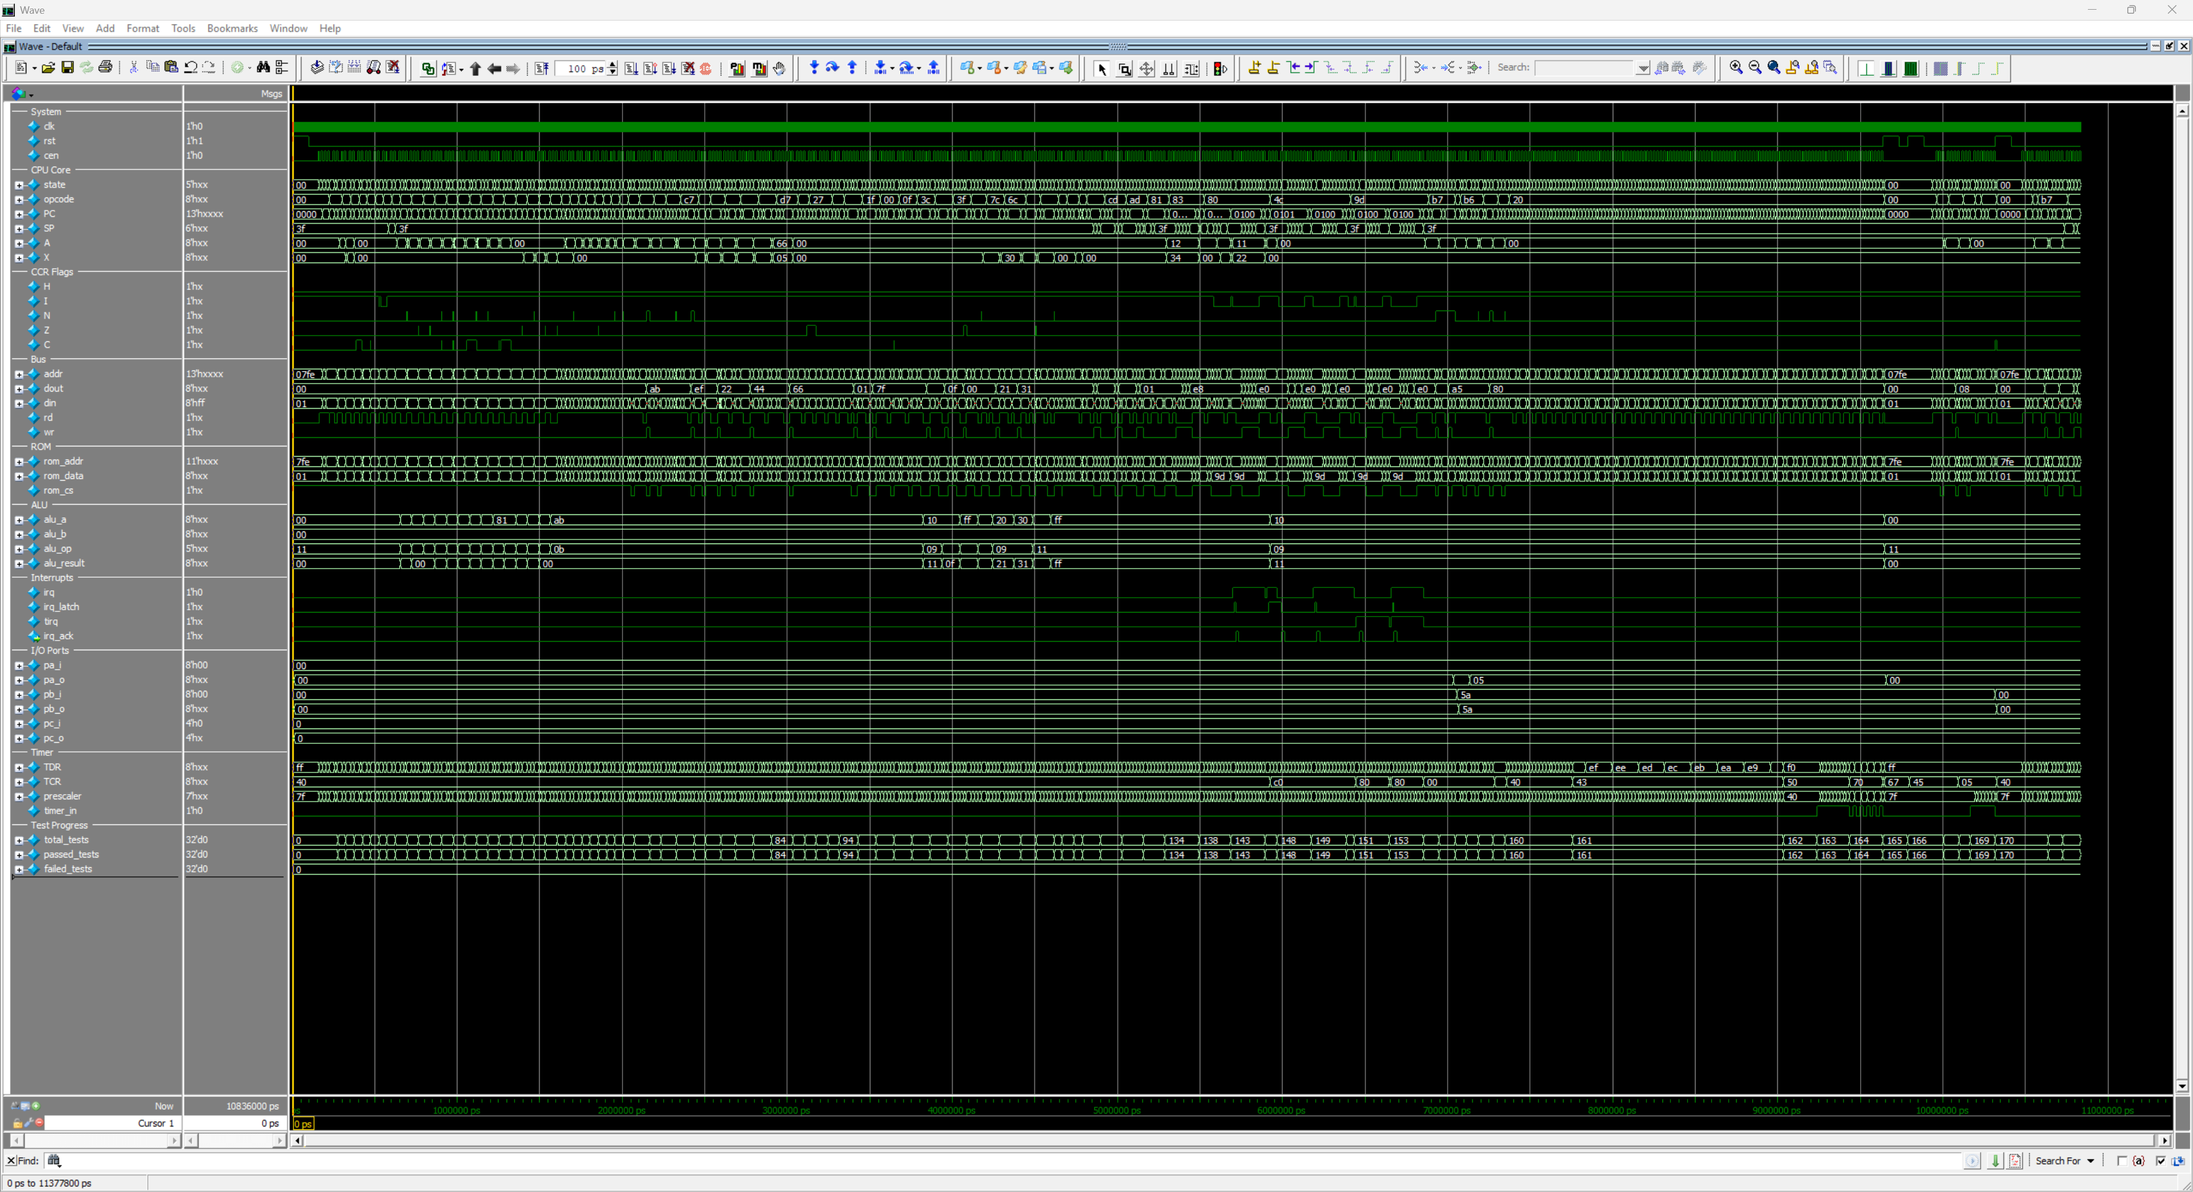
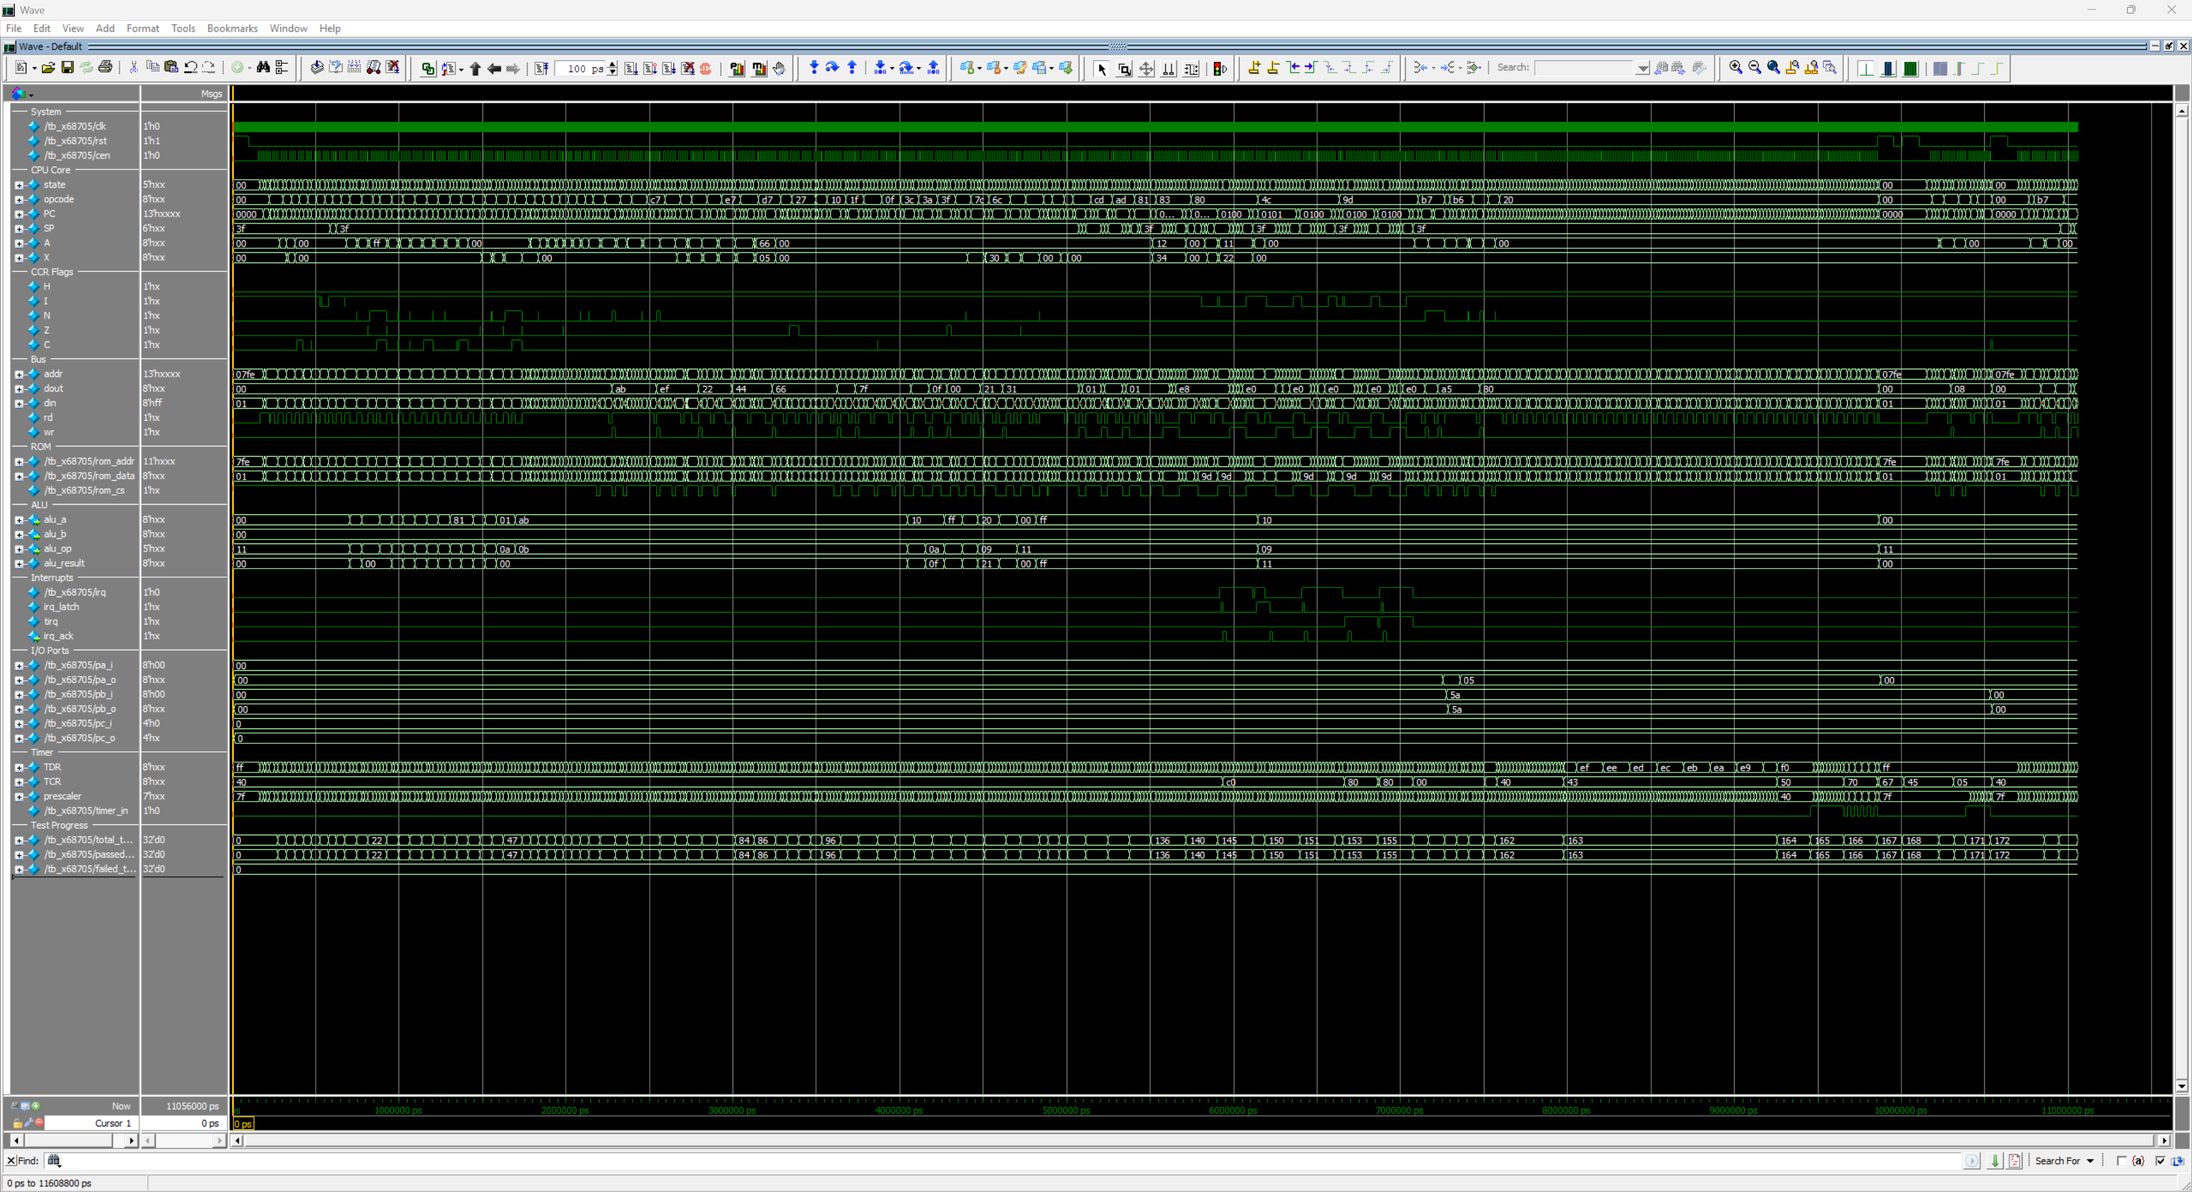
x68705 CLR carry, HMOS default, STOP / WAIT and 11-bit address wrap
- CPU: CLRA / CLRX leave C unchanged; STOP / WAIT decode only with HMOS = 0.
- HMOS default: 1, the MC68705P3/P5 timing.
- Address decode: wraps at 11 bits.
- Testbench: 177 tests with C, WAIT / undefined and wrap checks; logs regenerated.
- README and HDL citations updated.
- x6502, x65c02, x76489: README and comment corrections.
- x8910: VGM playback log.

diff --git a/cpu/x68705/README.md b/cpu/x68705/README.md
@@ -18,7 +18,7 @@ The **x68705** is a fully synchronous, cycle-accurate Verilog implementation of 
 
 - **Fully Synchronous Design**: All state changes occur on the positive edge of `clk` when `cen` is active. No latches or asynchronous logic.
 - **Cycle-Accurate Timing**: Instruction timing matches the M6805/M146805 User's Manual opcode map: the HMOS counts of the MC68705P3/P5 with `HMOS = 1`, the M146805 CMOS counts with `HMOS = 0`.
-- **Complete Instruction Set**: All 62 unique operations (202 valid opcodes) implemented across 10 addressing modes.
+- **Complete Instruction Set**: All 62 unique operations (207 valid opcodes) implemented across 10 addressing modes.
 - **Integrated Peripherals**: I/O ports, timer/counter, and internal RAM included.
 - **M6805 Family Compatible**: Core architecture shared across the M6805 family.
 - **Timing Constraints**: The IP ships an SDC file that relaxes its `cen`-paced paths from one setting in the core SDC. See [Timing Constraints](#timing-constraints).
@@ -104,13 +104,15 @@ $008-$009   Timer Registers
   $008      TDR - Timer Data Register (8-bit counter)
   $009      TCR - Timer Control Register
 
-$00A-$00F   Reserved (reads as $FF)
+$00A        Reserved (reads as $FF)
+$00B        PCR - Programming Control Register (EPROM programming; not modeled, reads as $FF)
+$00C-$00F   Reserved (reads as $FF)
 
 $010-$07F   Internal RAM (112 bytes)
   $010-$05F   General purpose (80 bytes)
   $060-$07F   Stack area (32 bytes, builds downward)
 
-$080-$783   User EPROM (1804 bytes)
+$080-$783   User EPROM (1796 bytes; 1804 with the vectors)
 $784        Mask Option Register (MOR)
 $785-$7F7   Bootstrap ROM (115 bytes)
 
@@ -168,7 +170,7 @@ Counts are machine cycles, written HMOS/CMOS. `HMOS = 1` gives the M6805 HMOS co
 
 In HMOS mode the state machine holds, right after the opcode decode, for the number of machine cycles by which the HMOS count exceeds the CMOS count, 0 to 5, so every bus access keeps its position relative to the end of the instruction. The timer keeps counting through the hold.
 
-**CMOS compatibility:** `HMOS = 0` is the default and keeps the timing of earlier x68705 releases for every opcode. The one change is the hardware interrupt entry (external and timer), which now takes the 10 cycles of Appendix G Table G1; earlier releases took 9.
+**Default:** `HMOS = 1`, the MC68705P3/P5 timing, is the default. `HMOS = 0` keeps the timing of x68705 releases before HMOS support for every opcode, except the hardware interrupt entry (external and timer), which takes the 10 cycles of Appendix G Table G1; those releases took 9.
 
 #### Register/Memory Operations
 
@@ -235,7 +237,7 @@ In HMOS mode the state machine holds, right after the opcode decode, for the num
 | STOP | 1 | -/2 | Stop oscillator |
 | WAIT | 1 | -/2 | Wait for interrupt |
 
-*STOP and WAIT are M146805 CMOS instructions, implemented here for M6805 family compatibility. The MC68705P3 and MC68705P5 do not have them.*
+*STOP and WAIT are M146805 CMOS instructions and decode only with `HMOS = 0`. The MC68705P3 and MC68705P5 do not have them; with `HMOS = 1`, $8E and $8F are undefined opcodes.*
 
 #### Jump and Subroutine Instructions
 
@@ -366,6 +368,11 @@ output wire        rom_cs    // ROM chip select
 
 The internal clock is phi2, the machine cycle: the prescaler counts once per `cen` pulse, or once per rising edge of the TIMER pin in external mode. At reset TCR bits 0-2, 4 and 5 are loaded from the MOR, TIR is cleared and TIM is set. With MOR TOPT = 1 (mask-option emulation) the prescaler select and the clock source come from the MOR and TIE is held at 1, so the TIMER pin gates the internal clock (tie it high for an ungated clock); writes to TCR[5:0] and PSC have no effect, and TCR[5:0] read as 1s.
 
+Where the MC68705P5 data sheet contradicts itself, x68705 follows one reading:
+
+- **PSC**: writing 1 clears the prescaler to 0 [p.3-858]. The same page also says the write sets it to all 1s.
+- **DDR reads**: a DDR reads as $FF, per the data sheet's caution [p.3-855]. Its I/O port description calls a DDR read undefined [p.3-863].
+
 ### Mask Option Register (MOR)
 
 ```
@@ -417,7 +424,7 @@ x68705_mcu #(
 
 | Parameter | Default | Description |
 |-----------|---------|-------------|
-| `HMOS` | 0 | 1 = M6805 HMOS cycle counts (MC68705P3/P5), 0 = M146805 CMOS cycle counts |
+| `HMOS` | 1 | 1 = M6805 HMOS cycle counts (MC68705P3/P5), 0 = M146805 CMOS cycle counts and STOP / WAIT |
 
 ### RAM Customization
 
@@ -558,6 +565,7 @@ The testbench (`tb_x68705.v`) provides comprehensive verification across 19 sect
 - **Interrupt Handling**: IRQ edge latch and masked requests, TIRQ, SWI, IRQ before TIRQ
 - **Peripheral Access**: I/O ports with DDR reads, timer registers, the timer count rate in every input mode, TCR from the MOR at reset, MOR controlled mode
 - **Stack**: $60-$7F with the wrap below $60
+- **Address Space**: an extended address above $7FF wraps to 11 bits; $8F is WAIT with `HMOS = 0` and undefined with `HMOS = 1`
 
 </small>
 
@@ -567,7 +575,7 @@ vsim -c tb_x68705 -do "run -all"             # CMOS counts
 vsim -c -gHMOS=1 tb_x68705 -do "run -all"    # HMOS counts
 ```
 
-Both modes pass all 175 tests.
+Both modes pass all 177 tests.
 
 The cycle testbench (`tb_x68705_cycles.v`) runs each of the 207 defined opcodes and the /INT entry and checks the machine-cycle count of each against the opcode map: 208 checks, all passing, in both modes.
 
@@ -589,8 +597,8 @@ vsim -c -gHMOS=0 tb_x68705_cycles -do "run -all"  # CMOS counts
 =============================================================
   MC68705P3/P5 Comprehensive Test Results
 =============================================================
-  Total Tests:  175
-  Passed:       175
+  Total Tests:  177
+  Passed:       177
   Failed:       0
 =============================================================
   *** ALL TESTS PASSED ***
@@ -602,8 +610,8 @@ vsim -c -gHMOS=0 tb_x68705_cycles -do "run -all"  # CMOS counts
 =============================================================
   MC68705P3/P5 Comprehensive Test Results
 =============================================================
-  Total Tests:  175
-  Passed:       175
+  Total Tests:  177
+  Passed:       177
   Failed:       0
 =============================================================
   *** ALL TESTS PASSED ***

diff --git a/cpu/x6502/README.md b/cpu/x6502/README.md
@@ -17,7 +17,7 @@ The **x6502** is a fully synchronous, instruction and bus-cycle accurate Verilog
 <small>
 
 - **Fully Synchronous Design**: All state changes occur on the positive edge of `clk` when `cen` is active. RES, RDY, IRQ and NMI are sampled at `cen` only. No latches or asynchronous logic.
-- **Bus-Cycle Accurate**: Every read, write, dummy access, stack access and vector fetch appears on the external bus on the cycle the NMOS 6502 drives it, including the dummy reads of indexed, branch and read-modify-write cycles. Verified pin by pin against the NMOS 6502 netlist.
+- **Bus-Cycle Accurate**: Every read, write, dummy access, stack access and vector fetch appears on the external bus on the cycle the NMOS 6502 drives it, including the dummy reads of indexed, branch and read-modify-write cycles. Verified pin by pin against the NMOS 6502 netlist, except in the reset window (see [Reset](#reset)).
 - **Half-Cycle Mode**: With `HALF_CYCLE = 1`, a second enable (`cen_p2`) marks phase 2 of each cycle, so the data bus drive window (`dout_oe`) and the SO sample point match the silicon within the cycle.
 - **Complete Instruction Set**: All 256 opcodes: the 151 documented instructions across 13 addressing modes and the 105 undocumented opcodes, with their full bus patterns and the 12 JAM opcodes.
 - **Authentic NMOS Behavior**: JMP indirect page-wrap, NMOS decimal-mode flags, the reset sequence as a BRK with writes inhibited (S - 3, registers kept), interrupt recognition at the last cycle, the branch interrupt delay, CLI / SEI / PLP latency and NMI takeover of a BRK or IRQ entry.
@@ -569,7 +569,7 @@ Per-test output: [tb_x6502](doc/readme/tb_x6502_log.md)
 
 ### External Validation
 
-Beyond the testbench, x6502 was run against published 6502 test suites and against the transistor-level netlist of the NMOS 6502. Where a suite and the netlist disagree, the netlist is followed:
+Beyond the testbench, x6502 was run against published 6502 test suites and against the transistor-level netlist of the NMOS 6502. The suites and the netlist carry their own licenses, so their harnesses are not part of this package; the netlist-recorded scenarios the testbench needs ship in `sim/tb_x6502_ops.hex`. Where a suite and the netlist disagree, the netlist is followed:
 
 | Suite | Result |
 |-------|--------|

diff --git a/cpu/x68705/doc/readme/tb_x68705_cmos_log.md b/cpu/x68705/doc/readme/tb_x68705_cmos_log.md
@@ -1,6 +1,6 @@
 # x68705 Regression Log, CMOS Counts
 
-Full output of the `tb_x68705` testbench with `HMOS = 0`, checked against the CMOS cycle counts (175 tests across 19 sections). See [README.md](../../README.md#design-verification) for the section-by-section description.
+Full output of the `tb_x68705` testbench with `HMOS = 0`, checked against the CMOS cycle counts (177 tests across 19 sections). See [README.md](../../README.md#design-verification) for the section-by-section description.
 
 ```
 =============================================================
@@ -26,6 +26,7 @@ PASS: SEI timing = 2 cycles
 PASS: SEI: I = 1 = 00000001
 PASS: RSP timing = 2 cycles
 PASS: RSP: SP = $3F = 0000003f
+PASS: $8F: WAIT (CMOS) / undefined = 00000000
 
 === SECTION 2: Accumulator RMW Instructions ===
 
@@ -36,7 +37,7 @@ PASS: DECA timing = 3 cycles
 PASS: DECA: A = $00 = 00000000
 PASS: DECA: Z = 1 = 00000001
 PASS: CLRA timing = 3 cycles
-PASS: CLRA: A = $00 = 00000000
+PASS: CLRA: A = $00, NZC = 011 = 00000003
 PASS: COMA timing = 3 cycles
 PASS: COMA: A = $AA = 000000aa
 PASS: NEGA timing = 3 cycles
@@ -64,7 +65,7 @@ PASS: INCX: X = $FF = 000000ff
 PASS: DECX timing = 3 cycles
 PASS: DECX: X = $00 = 00000000
 PASS: CLRX timing = 3 cycles
-PASS: CLRX: X = $00 = 00000000
+PASS: CLRX: X = $00, NZC = 011 = 00000003
 
 === SECTION 4: Immediate Addressing Mode ===
 
@@ -100,6 +101,7 @@ PASS: LDA ext timing = 4 cycles
 PASS: LDA $0150: A = $CD = 000000cd
 PASS: STA ext timing = 5 cycles
 PASS: STA $0040: RAM = $EF = 000000ef
+PASS: LDA $0840 wraps to RAM $040 = 0000003c
 
 === SECTION 7: Indexed Addressing Modes ===
 
@@ -244,8 +246,8 @@ PASS: Stack: $5F untouched = 000000a5
 =============================================================
   MC68705P3/P5 Comprehensive Test Results
 =============================================================
-  Total Tests:  175
-  Passed:       175
+  Total Tests:  177
+  Passed:       177
   Failed:       0
 =============================================================
   *** ALL TESTS PASSED ***

diff --git a/cpu/x68705/doc/readme/tb_x68705_hmos_log.md b/cpu/x68705/doc/readme/tb_x68705_hmos_log.md
@@ -1,6 +1,6 @@
 # x68705 Regression Log, HMOS Counts
 
-Full output of the `tb_x68705` testbench with `HMOS = 1`, checked against the HMOS cycle counts (175 tests across 19 sections). See [README.md](../../README.md#design-verification) for the section-by-section description.
+Full output of the `tb_x68705` testbench with `HMOS = 1`, checked against the HMOS cycle counts (177 tests across 19 sections). See [README.md](../../README.md#design-verification) for the section-by-section description.
 
 ```
 =============================================================
@@ -26,6 +26,7 @@ PASS: SEI timing = 2 cycles
 PASS: SEI: I = 1 = 00000001
 PASS: RSP timing = 2 cycles
 PASS: RSP: SP = $3F = 0000003f
+PASS: $8F: WAIT (CMOS) / undefined = 00000001
 
 === SECTION 2: Accumulator RMW Instructions ===
 
@@ -36,7 +37,7 @@ PASS: DECA timing = 4 cycles
 PASS: DECA: A = $00 = 00000000
 PASS: DECA: Z = 1 = 00000001
 PASS: CLRA timing = 4 cycles
-PASS: CLRA: A = $00 = 00000000
+PASS: CLRA: A = $00, NZC = 011 = 00000003
 PASS: COMA timing = 4 cycles
 PASS: COMA: A = $AA = 000000aa
 PASS: NEGA timing = 4 cycles
@@ -64,7 +65,7 @@ PASS: INCX: X = $FF = 000000ff
 PASS: DECX timing = 4 cycles
 PASS: DECX: X = $00 = 00000000
 PASS: CLRX timing = 4 cycles
-PASS: CLRX: X = $00 = 00000000
+PASS: CLRX: X = $00, NZC = 011 = 00000003
 
 === SECTION 4: Immediate Addressing Mode ===
 
@@ -100,6 +101,7 @@ PASS: LDA ext timing = 5 cycles
 PASS: LDA $0150: A = $CD = 000000cd
 PASS: STA ext timing = 6 cycles
 PASS: STA $0040: RAM = $EF = 000000ef
+PASS: LDA $0840 wraps to RAM $040 = 0000003c
 
 === SECTION 7: Indexed Addressing Modes ===
 
@@ -244,8 +246,8 @@ PASS: Stack: $5F untouched = 000000a5
 =============================================================
   MC68705P3/P5 Comprehensive Test Results
 =============================================================
-  Total Tests:  175
-  Passed:       175
+  Total Tests:  177
+  Passed:       177
   Failed:       0
 =============================================================
   *** ALL TESTS PASSED ***

diff --git a/sound/x8910/README.md b/sound/x8910/README.md
@@ -42,7 +42,7 @@ The **x8910** is a fully synchronous Verilog implementation of the General Instr
 | 8 | [Device Usage](#device-usage) | FPGA resource usage, timing and Fmax of a standalone compile on two Cyclone V parts |
 | 9 | [Implementation Notes](#implementation-notes) | Sources of the undocumented behavior and where the implementation and the GI documents differ |
 | 10 | [Project Structure](#project-structure) | Directory tree of the IP package |
-| 11 | [Design Verification](#design-verification) | Testbench section breakdown, run command, ModelSim screenshot, final summary box. Per-test log: [tb_x8910](doc/readme/tb_x8910_log.md). |
+| 11 | [Design Verification](#design-verification) | Testbench section breakdown, run command, ModelSim screenshot, final summary box. Per-test log: [tb_x8910](doc/readme/tb_x8910_log.md); VGM log: [tb_x8910_vgm](doc/readme/tb_x8910_vgm_log.md). |
 | 12 | [VGM Playback](#vgm-playback) | VGM playback testbench and the VGM-to-WAV toolchain |
 | 13 | [Design References](#design-references) | GI documents, the die schematic and the VGM specification |
 | 14 | [License](#license) | Creative Commons Attribution-NonCommercial 4.0 International |
@@ -366,7 +366,8 @@ x8910/
 │   ├── 02_AY-3-8910_RE_Schematic.pdf
 │   ├── 03_AY-3-8910_RE_Schematic_Sheet.pdf
 │   └── readme/
-│       └── tb_x8910_log.md          # Full regression log
+│       ├── tb_x8910_log.md          # Full regression log
+│       └── tb_x8910_vgm_log.md      # VGM playback testbench output
 ├── hdl/
 │   ├── x8910.v                      # Top level: registers, mixer, D/A, output sum
 │   ├── x8910_tone.v                 # Tone generator
@@ -444,6 +445,8 @@ A VGM playback testbench is included for validating the chip against real game a
     </td>
   </tr>
 </table>
+
+Output of a sample run: [tb_x8910_vgm](doc/readme/tb_x8910_vgm_log.md)
 
 ### Usage
 

diff --git a/cpu/x65c02/README.md b/cpu/x65c02/README.md
@@ -10,7 +10,7 @@
 
 ## x65c02 Overview
 
-The **x65c02** is a fully synchronous, instruction and bus-cycle accurate Verilog implementation of the Rockwell R65C02 8-bit CMOS microprocessor. The design is implemented as an explicit per-cycle finite state machine without microcode. Every opcode, the reset sequence, interrupt recognition, RDY and SO follow the Rockwell R65C02 datasheet and, where the datasheet gives no bus cycle, bus recordings of a real R65C02P2, against which the design is verified cycle by cycle. The R65C02 is the Rockwell variant of the 6502 family, extending the NMOS 6502 instruction set with the CMOS additions and the Rockwell bit-manipulation group (RMB / SMB / BBR / BBS).
+The **x65c02** is a fully synchronous, instruction and bus-cycle accurate Verilog implementation of the Rockwell R65C02 8-bit CMOS microprocessor. The design is implemented as an explicit per-cycle finite state machine without microcode. Every opcode, the reset sequence, interrupt recognition, RDY and SO follow the Rockwell R65C02 datasheet and bus recordings of a real R65C02P2, the recordings taking precedence where the two differ in a bus cycle, and the design is verified against the recordings cycle by cycle. The R65C02 is the Rockwell variant of the 6502 family, extending the NMOS 6502 instruction set with the CMOS additions and the Rockwell bit-manipulation group (RMB / SMB / BBR / BBS).
 
 Sources of behavior, in this order:
 

diff --git a/sound/x8910/doc/readme/tb_x8910_vgm_log.md b/sound/x8910/doc/readme/tb_x8910_vgm_log.md
@@ -1,0 +1,19 @@
+# x8910 VGM Playback Log
+
+Output of the `tb_x8910_vgm` testbench for one AY-3-8910 VGM, Mat Mania BGM command $01 on the first AY (1,500,000 Hz, 3,504 commands). See [README.md](../../README.md#vgm-playback) for the pipeline.
+
+```
+=============================================================
+  x8910 (AY-3-8910) VGM Playlist Testbench
+=============================================================
+
+  [Track 1] clock=1500000 Hz
+    -> 248364 samples (5.6 sec)
+
+=============================================================
+  Playlist complete: 1 track(s)
+  Run: python sim/scripts/wav_batch.py
+=============================================================
+```
+
+`wav_batch.py`: `cmd0x01_ay1.wav`, 5.63 s, 248,364 samples at 44,100 Hz.

diff --git a/sound/x76489/README.md b/sound/x76489/README.md
@@ -435,7 +435,7 @@ WAV files are written to `sim/output/wav/` with names derived from the source VG
   <small><i>(TIM 9919 Architecture, Figure 6; Sound Generation; Test Set Error Tables)</i></small>
 - [VGM File Format Specification 1.71](https://vgmrips.net/wiki/VGM_Specification)<br>
   <small><i>(Header offset 0x0C, command 0x50)</i></small>
-- [TI SN76489AN Die Schematic](https://github.com/ika-musume/IKA76489/blob/main/SN76489.pdf)<br>
+- [TI SN76489AN Die Schematic](doc/05_TI_SN76489AN_RE_Schematic.pdf)<br>
   <small><i>(TONE: the period of 0; NOISE: the register length, taps, seed and periodic mode; DATA WRITE CONTROL: the write timer, READY and the register strobe on every byte)</i></small>
 
 ## License
